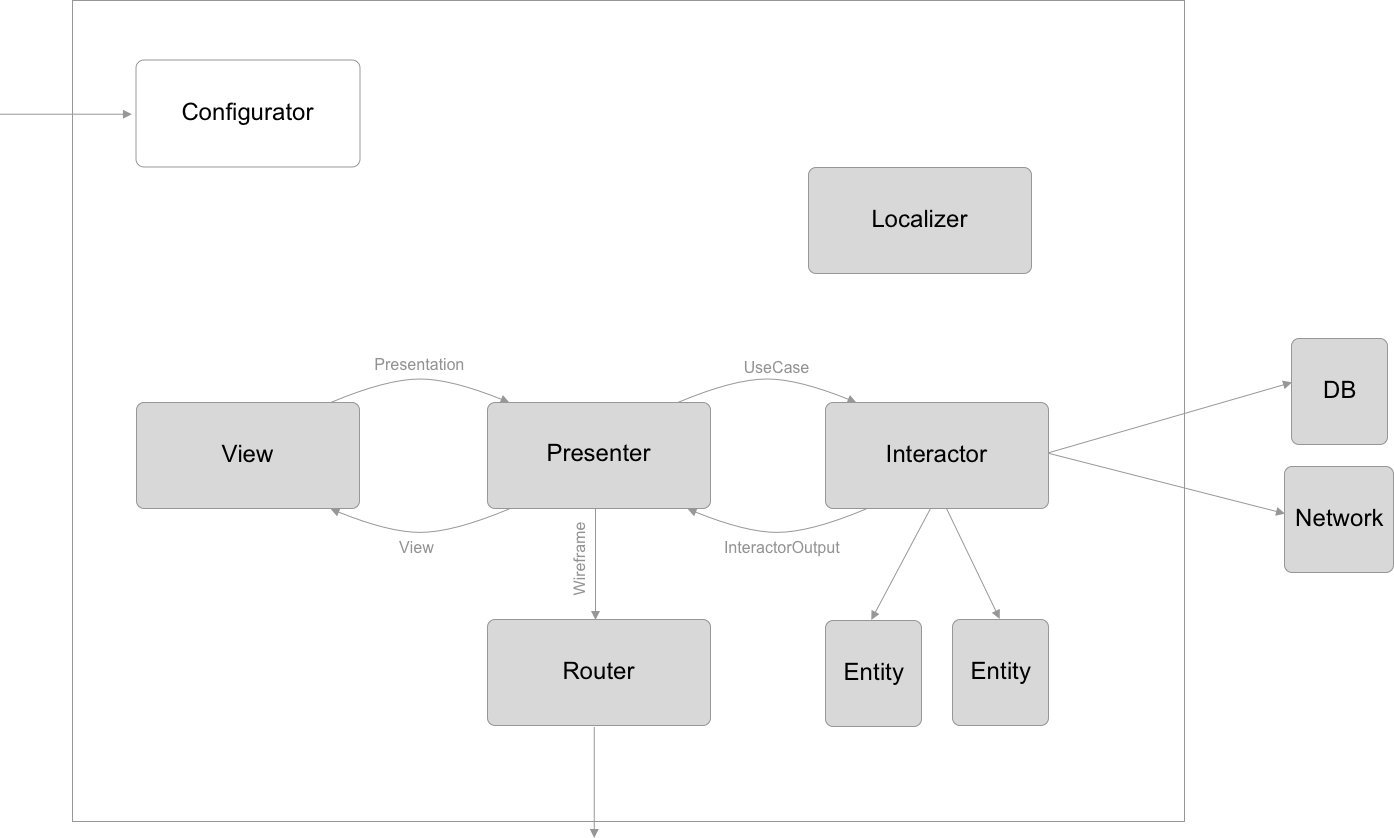
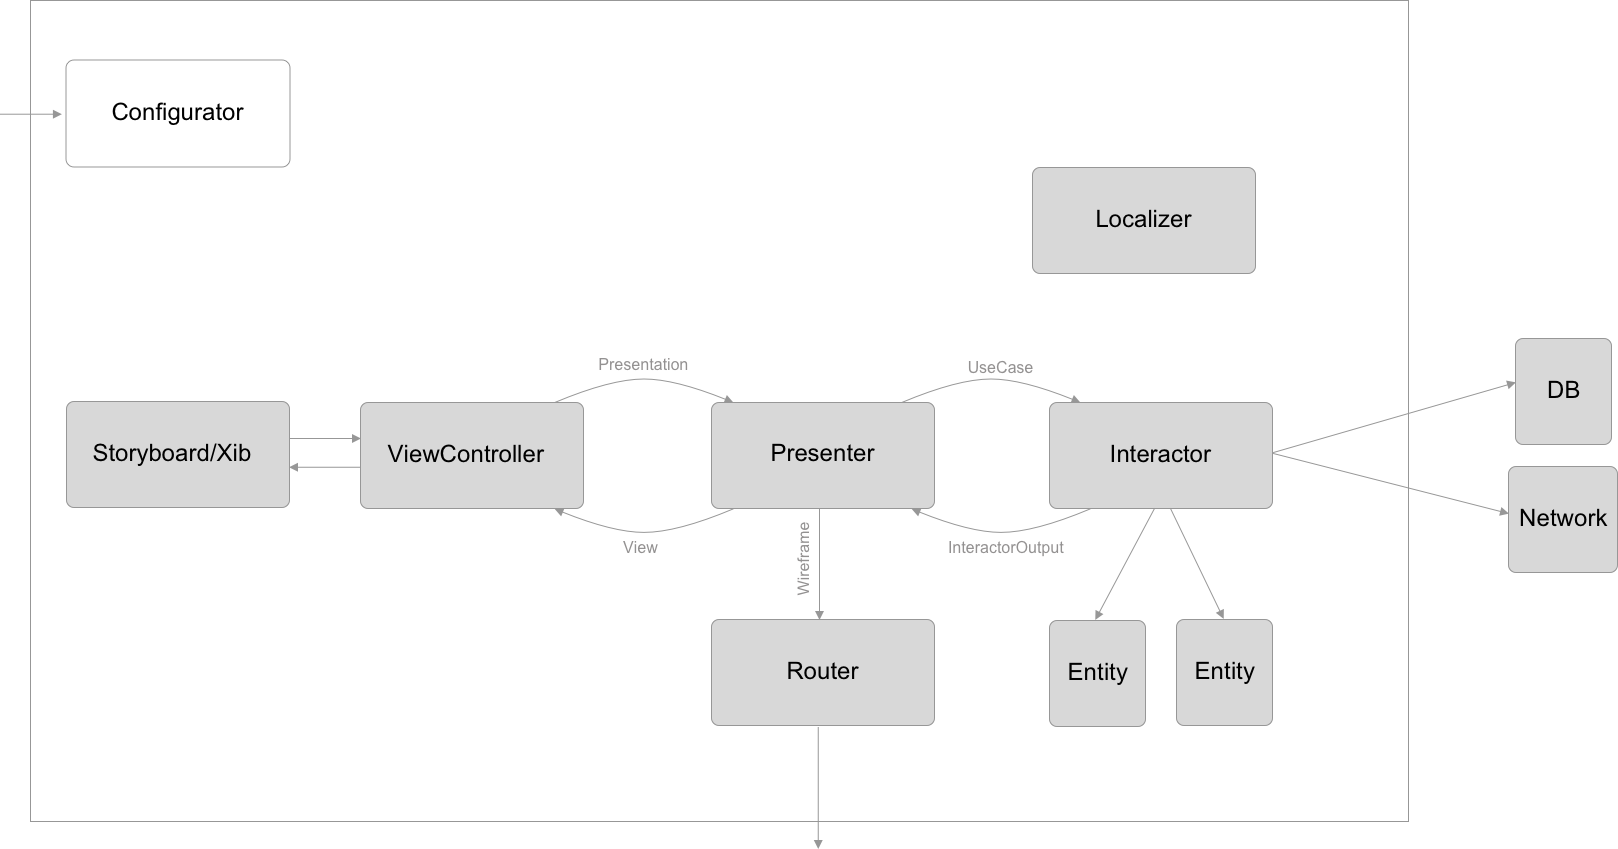
readme

diff --git a/NKSmartViper/NKSmartViper.swift b/NKSmartViper/NKSmartViper.swift
@@ -1,10 +1,11 @@
 //  🐍 NKSmartViper
+//
 //  Base.swift
 //  
 //
 //  Created by Nick Kopilovskii on 1/28/19.
 //  Copyright © 2019 Nick Kopilovskii. All rights reserved.
-//
+//  https://github.com/nkopilovskii/SmartVIPER
 
 import UIKit
 

diff --git a/NKSmartViper/Sevices.swift b/NKSmartViper/Sevices.swift
@@ -4,7 +4,7 @@
 //
 //  Created by Nick Kopilovskii on 1/28/19.
 //  Copyright © 2019 Nick Kopilovskii. All rights reserved.
-//
+//  https://github.com/nkopilovskii/SmartVIPER
 
 import Foundation
 

diff --git a/README.md b/README.md
@@ -1,31 +1,36 @@
-
 ![](https://github.com/nkopilovskii/SmartVIPER/blob/master/SmartVIPER_logo.png?raw=true)
 
-
 # NKSmartViper Code Generator
-The presented template and script are designed to generate a module on the viper architecture using the auxiliary service of localization of string data.
-
+The presented template and script are designed to generate a module on the VIPER architecture using the auxiliary service of localization of string data.
+##
 ## VIPER architecture
 Module architecture is one of the variations of Clean Architecture with elements of the Service Oriented Architecture.
+
+This solution is based on the use of generics in order to reduce the preservation of the integral structure of the modules and avoid the redundant code in them.
 
 ![](https://github.com/nkopilovskii/SmartVIPER/blob/master/blockscheme.png?raw=true)
 
 `Configurator`  is an abstract factory (creates objects of module levels and establishes dependencies between them) and the entry point to the module.
-
+##
 `View` displays UI. `View` appeals to the `Presenter` through the `Presentable` protocol.
-
+##
 `Presenter` organizes communication between all levels of the module. 
 - `Presenter` appeals to `View` through the `Viewable` protocol. 
 - `Presenter` appeals to `Interactor` through the `UseCase` protocol.
 - `Presenter` appeals to `Router` through the `Wireframe` protocol.
-
+##
 `Interactor` implements the business logic of the module, interacts with services (DB, Network, etc.). `Interactor` appeals to `Presenter` through the `InteractorOutput` protocol.
-
+##
 `Router` implements the transition from this module to another module.
-
-`Localizator` is an auxiliary service that implements a convenient mechanism for working with localized module string resources.
-
+##
+`Localizer` is an auxiliary service that implements a convenient mechanism for working with localized module string resources. 
+- `Localizer` has no direct dependencies with any of the levels of the module and can be used by any of them.
+- `Localizer` is also generated using a generic for automated access to localized resources.
+##
 ## How to use
-
-## Example
-
+1. Copy files **`NKSmartViper.swift`** and **`Services.swift`** from **`NKSmartVIPER`** folder to your project. 
+2. Run **`NKSmartViperCodeGen`**. **(Make sure the "Module" folder with the template files is in the same folder.)*
+3. Enter the target path for the created module.
+4. Enter name of the created module.
+5. After successful generation of the module files at the specified path, add them to the project
+##
